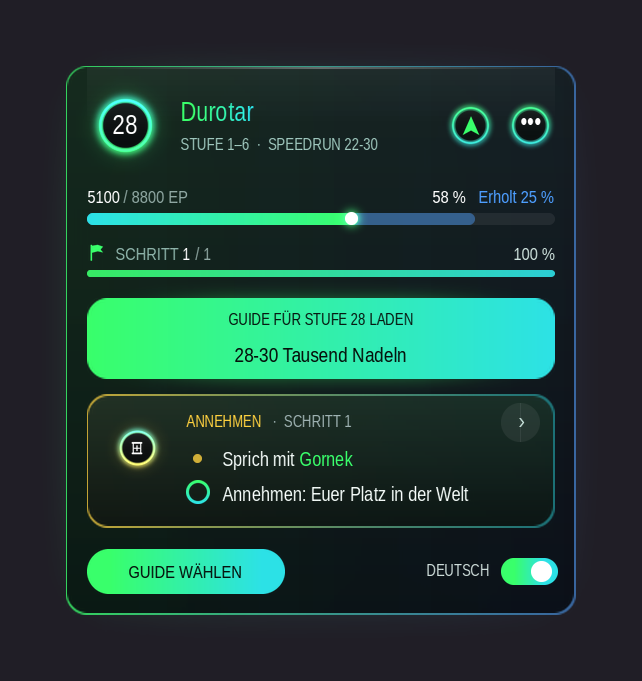
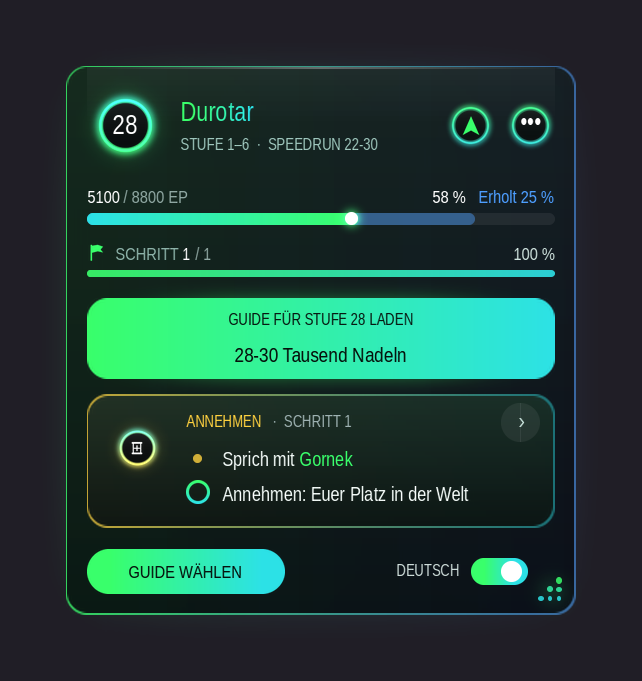
RXPNeon 2.1.0: Fenster per Ecke skalierbar, Grind-Schritte ueberspringen, Hinweise Vorquest fehlt / Quest nicht im Log
- Griff unten rechts: ziehen = Groesse 0.6-1.6 (linke obere Ecke bleibt), Rechtsklick = normal, gespeichert
- Grind-Schritte (.xp) standardmaessig uebersprungen, /rxn grind an|aus
- Annehmen ohne Vorquest -> VORQUEST FEHLT, Abgeben ohne Quest im Log -> QUEST NICHT IM LOG
- Tests (165 Pruefungen), Vorschauen, Doku

Claude-Session: https://claude.ai/code/session_01AC3hVdnMTHuM5N2bCDt2Ev

Changed region(s): [[0.6231, 0.8018, 0.8723, 0.8943]]

diff --git a/wow-addons/UEBERGABE.md b/wow-addons/UEBERGABE.md
@@ -10,7 +10,7 @@ in Sitzungen auf **Tiry38/Tiry** weiter. Alle Dateien liegen in diesem Ordner, P
 | **Tiry's Zentrale** | 6.4.0 | Gold- und Berufe-Addon (`TirysZentrale/`, Doku `ZENTRALE.md`): Neon-Glas-Design mit Dock, **ein AH-Scan für alle Reiter**, Verkäufe pro Tag, Gold pro Tag, Schnäppchen, Kaufen bis, Neu einstellen mit Menge, Anzahlung im Gewinn (1 Kupfer seit 10.11.), Tooltip als Preis-Liste, **Sparziel, Unterwegs-Gold (mit LevelPilot-Route), Stationen/seelengebundene Rezepte (6.2), eigenes Berufsfenster statt Blizzards mit WoW/TZ-Umschalter (6.4), AH-Scan aktualisiert alles (6.4)** | ausgeliefert, **Spieltest offen** (Checkliste `INGAME-TEST.md`) |
 | **LevelPilot** | 6.0.3 | **6.0.3:** gleichnamige Kettenquests werden nicht mehr verwechselt (Elixier der Schmerzen Teil 2 galt als angenommen), Gegner und neue Quests im Fenster Stufe −3 bis +1 (nicht zu schwer, nicht zu leicht; Pfeil zur passendsten Gegnersorte), Karte „Gegner ~St. X nehmen“. **6.0.2:** Pfeil führt bei Beute von mehreren Gegnersorten nur zu Gegnern bis Stufe +1 (Berglöwenblut: hungernde Löwen statt Stufe-32-Berglöwen), Warnung „nur Gegner ~St. X · St. Y meiden“. **6.0.1:** Tooltips nennen deine Stufe mit (Questlevel gegen deine Stufe in Worten). **6.0 Live-Modus (Standard):** wählt nach Ort, Questlog und Stufe ein **Quest-Gebiet** (Hub mit vielen passenden, einfachen Quests: Quest/Gegner ≤ Stufe +1, keine Elite/Gruppe/Dungeon), Pfeil führt Annehmen → Erledigen → Abgeben nach Nähe, Gebietswechsel nur wenn fertig oder ≥ 30 % besser, `/lp live` schaltet auf den festen Plan; darunter Levelrouten Horde **22–30 und 30–40** als **fester Plan** (Einstieg erkennt deinen Stand, Sprung nur mit Beweis, `/lp zurueck`), **Questlog-Check** mit Löschen-Knopf, Plan-Band + Status-Pillen, echte Laufwege, Flug-Rat, Pfeil, Lichtstrahl (**ruht im Questgebiet**, 5.1), **Aufhol-Quests statt Grinden, wenn du hinter dem Plan bist** (5.1.1: Tausend Nadeln; **5.1.2: Anzahl nach echter XP-Leiste**, Rest als „noch X XP · ~N Mobs“, zweiter Block 28→30; **5.1.3: verpasste Aufhol-Quests kommen zurück, Warten zeigt XP bis zur nächsten Stufe, Wegpunkt-Kontrolle**; **5.1.4: Menü „Neu berechnen“** – Abstecher zu einer nicht schwereren Quest mit mehr XP/Min; **5.1.5: alles auf deine Stufe** – Quests höchstens Stufe +1, Gegner höchstens Stufe +1 (Planer + live), langsameres Planer-Tempo, Auto-Vorschlag „Passt zu deiner Stufe“ statt Warten, Grind-Schritte mit XP/Mobs; **5.1.6: Quest-Pool** – 430 Solo-Quests aus der Forever-DB, statt Grinden kommt automatisch die beste machbare Extra-Quest nach XP/Min inkl. Flug; **5.1.7: nur Solo** – Elite-Quests auch aus den festen Routen raus (Arachnophobia, Bloodfury Bloodline, Hypercapacitor Gizmo), laufende Begleitquest wird zuerst zu Ende geführt; **5.1.8:** verpasste Route-Quests zählen als Extra-Quests, Weg zum Grind-Platz zählt beim Vergleich mit, dunkle Schrift auf Neon-Knöpfen ohne Kontur = lesbar; **5.1.9:** Quest schon ab halbem Grind-Tempo (`R.QUEST_PREF` 0.5), Pool-Suche rechnet jeden Kandidaten, der noch gewinnen kann (statt fest 12), `/lp warum` + Grind-Tooltip zeigen die Rechnung), Auto-Quests, XP-Cockpit | ausgeliefert, **Spieltest offen** (Checkliste `INGAME-TEST.md`, Teil LevelPilot) |
 | **TotemTakt** | 1.0.0 | **Tirys Verstärker**: alle Totems auf **einer Taste** (Makro „TotemTakt“, /castsequence). Jeder Druck = nächstes Totem, Druck in der Abklingzeit zählt nicht. Außerhalb des Kampfes **fehlende/auslaufende/zu weit weg zuerst** (Buff-Check), frisch gestellte hinten; im Kampf eingefroren (Neustart 8 s/15 s/nie). Fenster `/takt`: 4 Element-Kugeln, Klick = Totem wählen/aus, Ziehen = Reihenfolge | **Spieltest offen** (Checkliste `INGAME-TEST.md`, Teil TotemTakt) |
-| **RXPNeon** | 2.0.1 | **Zusatz für RestedXP Guides (RXPGuides v4.11.x, vom Kumpel)**: **eigenes Neon-Fenster im LevelPilot-Stil** (Stufen-Kugel, EP + Erholt, Guide-Fortschritt, JETZT-Karte mit farbiger Schritt-Art und Entfernung, Questlog-Abgleich für Haken, ERLEDIGT·WEITER, ALS NÄCHSTES), **Neon-Pfeil** (Glas-Scheibe, facettierter Pfeil, Entfernung + Ziel deutsch); RXP läuft unsichtbar darunter weiter. `/rxn fenster rxp` = RXP-Original mit Neon-Skin und **deutsche Schritt-Texte live** (Quest-Titel per Quest-ID, NPC/Item/Objekt/Ort-Namen aus QuestieDB + Spieldaten, ~400 Satzregeln; 77,7 % der 57.921 Forever-Guide-Zeilen ohne englische Füllwörter). Knopf „GUIDE FÜR STUFE X LADEN“, wenn kein passender Guide läuft. **2.0.1:** Abgeben-Schritt mit unfertiger Quest im Log → Hinweis „ABGEBEN GEHT NOCH NICHT“ mit offenem Ziel (Tirys Fall „Die heilige Flamme“ 1195: Phiole leer). `/rxn`. Kein RXP-/Zygor-Code im Repo | **Spieltest offen** (Checkliste `INGAME-TEST.md`, Teil RXPNeon) |
+| **RXPNeon** | 2.1.0 | **Zusatz für RestedXP Guides (RXPGuides v4.11.x, vom Kumpel)**: **eigenes Neon-Fenster im LevelPilot-Stil** (Stufen-Kugel, EP + Erholt, Guide-Fortschritt, JETZT-Karte mit farbiger Schritt-Art und Entfernung, Questlog-Abgleich für Haken, ERLEDIGT·WEITER, ALS NÄCHSTES), **Neon-Pfeil** (Glas-Scheibe, facettierter Pfeil, Entfernung + Ziel deutsch); RXP läuft unsichtbar darunter weiter. `/rxn fenster rxp` = RXP-Original mit Neon-Skin und **deutsche Schritt-Texte live** (Quest-Titel per Quest-ID, NPC/Item/Objekt/Ort-Namen aus QuestieDB + Spieldaten, ~400 Satzregeln; 77,7 % der 57.921 Forever-Guide-Zeilen ohne englische Füllwörter). Knopf „GUIDE FÜR STUFE X LADEN“, wenn kein passender Guide läuft. **2.0.1:** Abgeben-Schritt mit unfertiger Quest im Log → Hinweis „ABGEBEN GEHT NOCH NICHT“ mit offenem Ziel (Tirys Fall „Die heilige Flamme“ 1195: Phiole leer). **2.1:** Fenster per **Ecke unten rechts größer/kleiner ziehen** (0,6–1,6, Rechtsklick = normal); **Grind-Schritte werden übersprungen** (`/rxn grind an` zeigt sie wieder); neue Hinweise **VORQUEST FEHLT** (Annehmen ohne Vorquest) und **QUEST NICHT IM LOG** (Abgeben ohne Quest). `/rxn`. Kein RXP-/Zygor-Code im Repo | **Spieltest offen** (Checkliste `INGAME-TEST.md`, Teil RXPNeon) |
 | **ProcAlarm** | 2.1.0 | **für Tirys Kollegen (Hexer)**: Schattentrance (17941) über Blizzard-Aura-Slot, auch im Kampf; violetter Glow + Blinken, ohne Ton, ohne grünen Ring | ausgeliefert, **Kampftest offen** |
 | **Schlaghagel** | 1.0.0 | **Tirys Verstärker**: Schlaghagel-Buff (16257) über Blizzard-Aura-Slot, auch im Kampf; Ladungen groß, Restzeit, türkiser Glow + Blinken wie ProcAlarm, ohne Ton; `/hagel` | ausgeliefert, **Kampftest offen** |
 | **EnhanceHUD** | 1.2.0 | Verstärker-Schamanen-HUD (Frost/Feuer-Design) | ausgeliefert |

diff --git a/wow-addons/INGAME-TEST.md b/wow-addons/INGAME-TEST.md
@@ -382,7 +382,20 @@ Aus 4.2 weiter offen: `C_Map.GetMapPosFromWorldPos`, Flugmeister-IDs, Hochplatea
 - Reichweite gibt es nur für Buff-Totems; Verbrennung/Magma/Erdbindung usw. gelten als „steht“, solange sie laufen.
 
 
-# Ingame-Test – RXPNeon 2.0.1
+# Ingame-Test – RXPNeon 2.1.0
+
+## Neu in 2.1: Größe, Grinden, Annahme/Abgabe
+- [ ] Unten rechts im Fenster sitzen **grün-türkise Punkte** (Griff). Maus drauf → Hinweis „Größe ändern“.
+- [ ] Griff mit linker Maustaste ziehen: Fenster wird **größer/kleiner**, die **linke obere Ecke bleibt stehen**. Grenzen: 60 % bis 160 %.
+- [ ] `/reload`: Größe und Position bleiben. **Rechtsklick** auf den Griff = wieder normale Größe. Bei `/rxn fest` lässt sich nichts ziehen.
+- [ ] **Grind-Schritte** („Grinde bis Stufe X“ / `.xp`) tauchen nicht mehr auf: Kommt einer, springt das Fenster weiter, im Chat steht „Grind-Schritt (Stufe X) übersprungen“. Steckt der Grind-Teil in einem Schritt mit Quests, bleiben die Quest-Zeilen stehen.
+- [ ] `/rxn grind an` → Grind-Schritte wieder sichtbar („EP SAMMELN“); `/rxn grind aus` → wieder überspringen.
+- [ ] Im Kampf wird nichts übersprungen, erst danach.
+- [ ] Annehmen-Schritt, dessen Vorquest fehlt (RXP zeigt dann ein rotes Fehler-Symbol): Kasten **VORQUEST FEHLT** mit dem Namen der fehlenden Quest.
+- [ ] Abgeben-Schritt für eine Quest, die du **nicht** im Log hast: Kasten **QUEST NICHT IM LOG** – annehmen oder mit „›“ überspringen.
+- [ ] Ohne Grinden kann man **unter dem Stufenbereich** des nächsten Guides landen – dann Stufe im Kopf mit „STUFE a–b“ vergleichen.
+
+## Aus 2.0.1
 
 ## Neu in 2.0.1: „Abgeben geht noch nicht“
 - [ ] Ein Abgeben-Schritt für eine Quest, die du hast, die aber noch nicht fertig ist (z. B. „Die heilige Flamme“ bei Zangen mit „Gefüllte geätzte Phiole 0/1“): Die Abgeben-Zeile ist orange. Darunter steht der Kasten **ABGEBEN GEHT NOCH NICHT** mit dem offenen Ziel, bei der heiligen Flamme auch mit dem Ort (Mondbrunnen Eschental).
@@ -409,7 +422,7 @@ Aus 4.2 weiter offen: `C_Map.GetMapPosFromWorldPos`, Flugmeister-IDs, Hochplatea
 - [ ] 4 kommende Schritte als runde Zeilen mit Symbol und „#Nummer“; Maus drauf zeigt alle Zeilen des Schritts.
 - [ ] **GUIDE WÄHLEN** und „•••“ öffnen RXPs Guide-Menü. Pfeil-Knopf oben schaltet den Pfeil an/aus.
 - [ ] Schalter DEUTSCH: aus = englische Originaltexte, an = deutsch.
-- [ ] Fenster mit linker Maustaste verschieben, `/reload`: Position bleibt. `/rxn groesse 1.2`, `/rxn fest`, `/rxn reset`.
+- [ ] Fenster mit linker Maustaste verschieben, `/reload`: Position bleibt. Größe: Ecke ziehen oder `/rxn groesse 1.2`, `/rxn fest`, `/rxn reset`.
 
 ## Texte
 - [ ] **Keine halben Übersetzungen mehr** („Annehmen The Sacred Flame“ war der Fehler): Quest-Titel deutsch, auch in RXPs Original-Fenster (`/rxn fenster rxp`).
@@ -434,3 +447,5 @@ Aus 4.2 weiter offen: `C_Map.GetMapPosFromWorldPos`, Flugmeister-IDs, Hochplatea
 - Freie Hinweissätze der Guides sind teils noch englisch (keine Vorlage für jeden Satz); Zaubernamen in [Klammern] bleiben englisch.
 - Quest-Titel, die in der Namenstabelle fehlen, holt RXPNeon live vom Spiel (`C_QuestLog.GetTitleForQuestID`) – klappt nur, wenn das Spiel die Quest kennt.
 - Klassen-Symbol im Kopf (rund) kommt aus Blizzards `UI-Classes-Circles` – in der Vorschau nicht darstellbar.
+- Grind überspringen: RXPNeon hakt RXPs Grind-Zeile ab (wie ein Klick von dir); reiner Grind-Schritt → zusätzlich `RXP.SetStep(+1)`. Ob RXP dabei nie zurückspringt, zeigt erst das Spiel.
+- „VORQUEST FEHLT“ liest RXPs eigene Prüfung (Fehler-Symbol + Liste im Tooltip) – nur so gut wie RXPs Daten.

diff --git a/wow-addons/CLAUDE.md b/wow-addons/CLAUDE.md
@@ -47,7 +47,7 @@ AreaTable/TaxiNodes), Grafiken `tools/rxn_media.py`, Satzregeln von Hand in `Phr
 Spiel, ohne HIGHLIGHT-Ebene. **2.0:** `Fenster.lua` = eigenes Fenster, liest RXP-Daten (`RXPFrame.CurrentStepFrame.framePool`
 mit `.step`/`.elements[j].button`, `RXP.GetGuideProgress`, `currentGuide.steps`); Haken = Klick auf RXPs CheckButton.
 **RXPFrame nie `Hide()`** (setzt `addon.isHidden` → RXP pausiert Automatik) – nur Alpha 0 + Scale 0.01, per Hook erzwungen.
-**2.0.1:** RXPs `.turnin` (ohne negative ID) wartet, bis die Quest abgegeben ist – hat Tiry die Quest, aber offene Ziele, zeigt `Missing(id)` (`C_QuestLog.GetQuestObjectives`) einen Hinweis-Kasten statt still zu hängen (Fall 1195: Phiole am Mondbrunnen Eschental füllen, laut RXP-Classic-Guide). `Pfeil.lua` = Skin auf `RXP.arrowFrame` (Text-Hook „Ziel\n(Nyd)“, Rotation-Hook, Größe 44). `RXP.ReplaceNpcIds` ohne Element
+**2.0.1:** RXPs `.turnin` (ohne negative ID) wartet, bis die Quest abgegeben ist – hat Tiry die Quest, aber offene Ziele, zeigt `Missing(id)` (`C_QuestLog.GetQuestObjectives`) einen Hinweis-Kasten statt still zu hängen (Fall 1195: Phiole am Mondbrunnen Eschental füllen, laut RXP-Classic-Guide). **2.1:** Griff `MakeGrip` unten rechts → `ScaleBy` (Skala aus Cursor-X, linke obere Ecke fix, 0.6–1.6, `DB.scale`). Grind = `IsGrind` (`tag == "xp"`, nicht `skipstep`/textOnly; `.xp <N`/`>N` sind Skip-Marker und bleiben); `DB.grind` (Standard aus) → `SkipGrind` klickt RXPs Grind-Box (`el.rxnGrind`), reiner Grind-Schritt zusätzlich `RXP.SetStep(cur+1)`, nicht im Kampf. Hinweise: `PreReq` (RXP `icons.error` + Tooltip-Liste) → „VORQUEST FEHLT“, Turnin ohne Quest im Log und ohne `skipIfMissing` → „QUEST NICHT IM LOG“. `Pfeil.lua` = Skin auf `RXP.arrowFrame` (Text-Hook „Ziel\n(Nyd)“, Rotation-Hook, Größe 44). `RXP.ReplaceNpcIds` ohne Element
 → `N.ElementByText` sucht das Quest-Element der aktiven Schritte (sonst halbe Übersetzung).
 
 ## Claude-Skills (Plugin „wow-werkstatt“)
